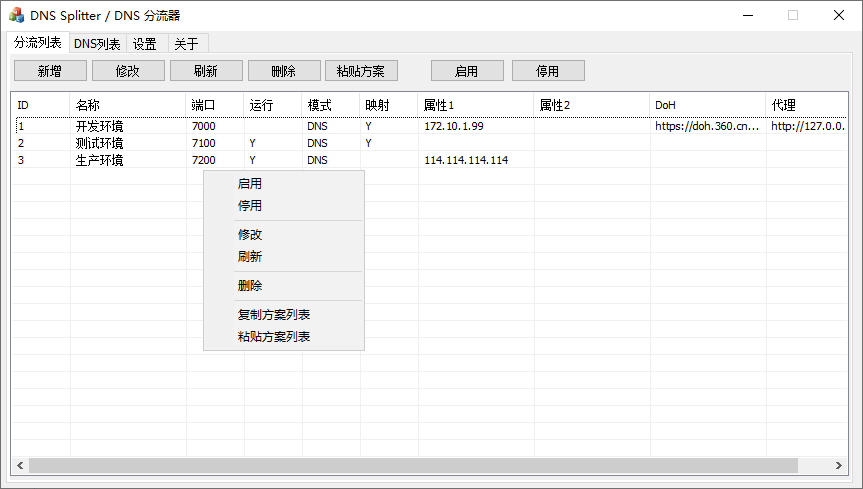
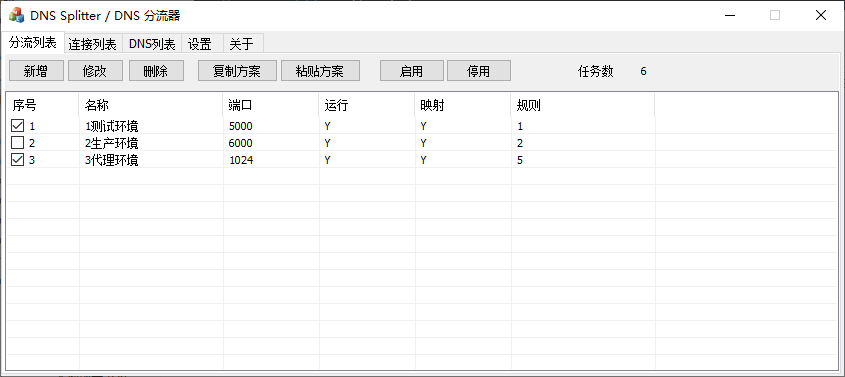
1.2.0.1

diff --git a/README.md b/README.md
@@ -45,6 +45,15 @@ https://chromewebstore.google.com/detail/splitteromega/ploedkalbbpgnejmmdoejdhja
 > 应用程序可以配置多个分流配置,结合【SplitterOmega代理插件】多个情景模式.
 
 #### 更新日志
+- 1.2.0.1
+1. 支持用户自定义规则列表
+2. 支持用户设置规则的优先级
+3. 支持设置走系统dns
+4. 支持设置是否为黑名单,匹配后则丢弃请求
+5. 区分chrome与edge的crx
+6. 兼容1.0版本的配置文件
+
+
 - 1.0.2.3
 1. 增加[复制方案]功能
 2. 优化为浏览器初始化SplitterOmega插件.
